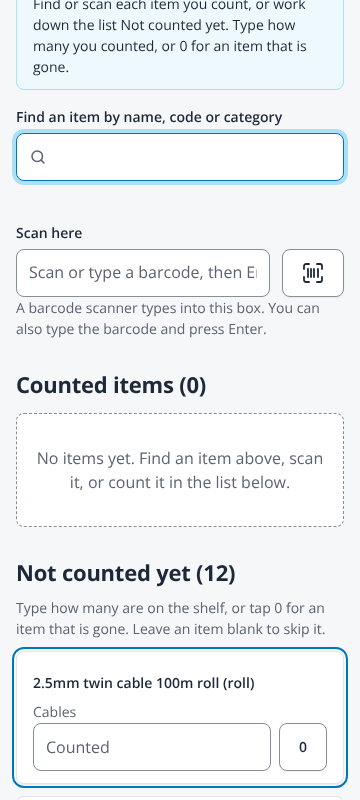
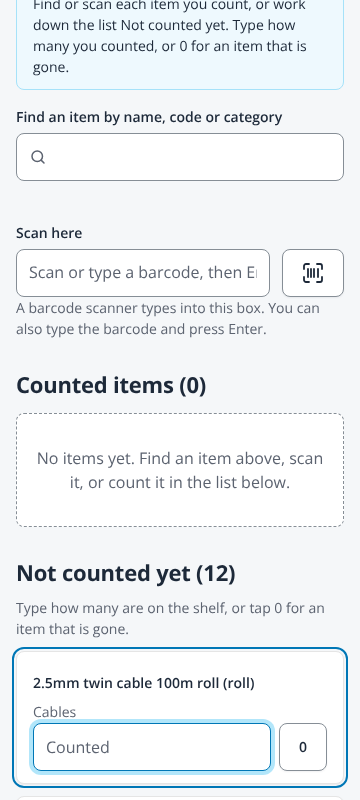
fix: review of #535 round 3: Finish anyway keeps the Review guards, and picker polish
- Stock-take: any change to a count withdraws the question, and Finish anyway has the Review
  button's disabled and busy states, so it never sends an invalid or empty count, or two drafts.
- Stock-take: a picked item's count box takes the cursor; the not-counted list uses sets; the
  hint no longer says to leave a line blank.
- Picker: an Escape with nothing to close goes on to the panel around it; the list is named by
  its own box's label; a cached answer stays in view while it is refreshed.
- Sale complete: New sale comes right after the receipt actions, before the documents.
- Docs and screenshots updated.

Changed region(s): [[0.0306, 0.1562, 0.9778, 0.25], [0.0611, 0.875, 0.7639, 0.9688], [0.3667, 0.7812, 0.8861, 0.8125]]

diff --git a/frontend/src/areas/staff/retail/stocktake.tsx b/frontend/src/areas/staff/retail/stocktake.tsx
@@ -1,6 +1,6 @@
 import { useMutation, useQuery, useQueryClient } from '@tanstack/react-query';
 import { createLazyRoute } from '@tanstack/react-router';
-import { useState } from 'react';
+import { useEffect, useState } from 'react';
 import { Highlight } from '../../../app/ui/SearchBox';
 import { ItemCombobox } from '../../../app/ui/ItemCombobox';
 import { matchesSearch, useLiveSearch } from '../../../app/ui/useLiveSearch';
@@ -89,6 +89,14 @@ function CountSheet({ branchId }: { branchId: string }) {
   // The lines whose count is entered, in the order they were done; and the question asked before a count with lines left.
   const [done, setDone] = useState<string[]>([]);
   const [confirming, setConfirming] = useState(false);
+  // The question answers the counts it was asked about: any change to a count withdraws it, so Finish anyway never sends
+  // counts the counter has not seen it for (review of #535).
+  useEffect(() => setConfirming(false), [counts]);
+  // A picked item's count box takes the cursor, after the picker has put it back in the search (review of #535).
+  const [focusOn, setFocusOn] = useState<{ id: string; pick: number } | null>(null);
+  useEffect(() => {
+    if (focusOn) document.getElementById(`count-${focusOn.id}`)?.focus();
+  }, [focusOn]);
   /** A line leaves Not counted yet once its count is in, and goes back if the count is emptied. */
   const settle = (id: string) => setDone((d) => ((counts[id] ?? '').trim() === '' ? d.filter((x) => x !== id) : d.includes(id) ? d : [...d, id]));
   const stock = useQuery({ queryKey: ['retail', 'stock', branchId, '', false], queryFn: () => countableStock(branchId) });
@@ -139,7 +147,10 @@ function CountSheet({ branchId }: { branchId: string }) {
   // A line leaves it once its count is entered (on leaving the box, on Enter, or on 0), and "Counted items" holds the done
   // ones. An item found or scanned and not yet counted heads the list, marked, for its count.
   const isCounted = (id: string) => (counts[id] ?? '').trim() !== '';
-  const notCounted = [...rows.filter((r) => !done.includes(r.product_id ?? '')), ...(stock.data ?? []).filter((r) => !done.includes(r.product_id ?? '') && !listed.includes(r.product_id ?? ''))];
+  // Sets, so a sheet of thousands of lines is not walked line by line for every key in a count box.
+  const doneSet = new Set(done);
+  const listedSet = new Set(listed);
+  const notCounted = [...rows.filter((r) => !doneSet.has(r.product_id ?? '')), ...(stock.data ?? []).filter((r) => !doneSet.has(r.product_id ?? '') && !listedSet.has(r.product_id ?? ''))];
   const counted = done.flatMap((id) => byId.get(id) ?? []);
   const uncounted = (stock.data ?? []).filter((r) => !isCounted(r.product_id ?? '')).length;
   const finish = () => {
@@ -180,7 +191,7 @@ function CountSheet({ branchId }: { branchId: string }) {
           search={search}
           results={found}
           optionKey={(r) => r.product_id ?? ''}
-          onPick={(r) => { list(r.product_id ?? ''); setScanned(r.product_id ?? ''); }}
+          onPick={(r) => { list(r.product_id ?? ''); setScanned(r.product_id ?? ''); setFocusOn((f) => ({ id: r.product_id ?? '', pick: (f?.pick ?? 0) + 1 })); }}
           renderOption={(r) => (
             <>
               <span className="cb-text">
@@ -201,7 +212,7 @@ function CountSheet({ branchId }: { branchId: string }) {
           {counted.length === 0 && <p className="empty-state">No items yet. Find an item above, scan it, or count it in the list below.</p>}
           {counted.map((r) => line(r, false))}
           <h2>Not counted yet ({notCounted.length})</h2>
-          {notCounted.length === 0 ? <p className="empty-state">Every item on the sheet is counted.</p> : <p className="hint">Type how many are on the shelf, or tap 0 for an item that is gone. Leave an item blank to skip it.</p>}
+          {notCounted.length === 0 ? <p className="empty-state">Every item on the sheet is counted.</p> : <p className="hint">Type how many are on the shelf, or tap 0 for an item that is gone.</p>}
           {notCounted.map((r) => line(r, true))}
         </>
       )}
@@ -212,7 +223,7 @@ function CountSheet({ branchId }: { branchId: string }) {
           <p>{`${uncounted} ${uncounted === 1 ? 'item' : 'items'} not counted. Finish anyway?`}</p>
           <p className="cluster">
             <button type="button" className="btn-sm" onClick={() => setConfirming(false)}>Keep counting</button>
-            <button type="button" className="btn-sm" onClick={finish}>Finish anyway</button>
+            <BusyButton type="button" className="btn-sm" busy={review.isPending} disabled={entered.length === 0 || bad} onClick={finish}>Finish anyway</BusyButton>
           </p>
         </div>
       )}

diff --git a/frontend/src/areas/staff/retail/stocktake.dom.test.tsx b/frontend/src/areas/staff/retail/stocktake.dom.test.tsx
@@ -91,7 +91,7 @@ describe('counting the sheet', () => {
     expect(box().getAttribute('aria-expanded')).toBe('true');
   });
 
-  it('puts a picked item at the head of the list, marked, clears and closes the search and returns the cursor to it', async () => {
+  it('puts a picked item at the head of the list, marked, clears and closes the search and puts the cursor in its count box', async () => {
     listStock.mockResolvedValue([...active, inactiveHeld]);
     open();
     await screen.findByText(EMPTY);
@@ -99,7 +99,8 @@ describe('counting the sheet', () => {
     fireEvent.click(await screen.findByRole('option', { name: /^Test Lamp Inactive Held/ }));
     expect(box().value).toBe('');
     expect(screen.queryByRole('listbox')).toBeNull();
-    expect(document.activeElement).toBe(box());
+    // The point of the pick is its count (review of #535), so its box takes the cursor rather than the search.
+    expect(document.activeElement?.id).toBe('count-I-1');
     expect(screen.getByTestId('scan-hit').querySelector('input')?.id).toBe('count-I-1');
     const lines = [...document.querySelectorAll('.rt-card input[id^="count-"]')].map((i) => i.id);
     expect(lines).toEqual(['count-I-1', 'count-A-1']);
@@ -136,6 +137,36 @@ describe('counting the sheet', () => {
     fireEvent.click(screen.getByRole('button', { name: 'Finish anyway' }));
     await waitFor(() => expect(createStocktake).toHaveBeenCalledTimes(1));
     expect(createStocktake.mock.calls[0]?.[0]).toEqual({ branch_id: expect.any(String), lines: [{ product_id: 'I-1', counted_qty: '0' }] });
+  });
+
+  // Review of #535: the question answers the counts it was asked about, and Finish anyway keeps the Review button's guards.
+  it('withdraws the question when a count changes, so Finish anyway never sends an invalid or empty count', async () => {
+    listStock.mockResolvedValue([...active, inactiveHeld]);
+    open();
+    await screen.findByText(EMPTY);
+    const held = document.getElementById('count-I-1') as HTMLInputElement;
+    fireEvent.change(held, { target: { value: '3' } });
+    fireEvent.click(screen.getByRole('button', { name: 'Review variance (1 counted)' }));
+    expect(screen.getByTestId('count-not-done')).toBeTruthy();
+    fireEvent.change(document.getElementById('count-I-1') as HTMLInputElement, { target: { value: '4x' } });
+    expect(screen.queryByTestId('count-not-done')).toBeNull();
+    expect(screen.queryByRole('button', { name: 'Finish anyway' })).toBeNull();
+    expect(createStocktake).not.toHaveBeenCalled();
+  });
+
+  it('keeps Finish anyway to one request however often it is tapped', async () => {
+    listStock.mockResolvedValue([...active, inactiveHeld]);
+    createStocktake.mockImplementation(() => new Promise(() => {}));
+    open();
+    await screen.findByText(EMPTY);
+    fireEvent.click(screen.getByRole('button', { name: 'Count 0 of Test Lamp Inactive Held' }));
+    fireEvent.click(screen.getByRole('button', { name: 'Review variance (1 counted)' }));
+    const go = screen.getByRole('button', { name: 'Finish anyway' });
+    fireEvent.click(go);
+    fireEvent.click(go);
+    await waitFor(() => expect(createStocktake).toHaveBeenCalledTimes(1));
+    await new Promise((r) => setTimeout(r, 50));
+    expect(createStocktake).toHaveBeenCalledTimes(1);
   });
 
   it('goes back to the count on Keep counting, and sends nothing', async () => {

diff --git a/frontend/src/app/ui/ItemCombobox.tsx b/frontend/src/app/ui/ItemCombobox.tsx
@@ -82,7 +82,9 @@ export function ItemCombobox<T>({ id, label, search, results, fetching = false, 
       if (item !== undefined) pick(item);
       else search.flush();
     } else if (e.key === 'Escape') {
-      // Escape belongs to the picker: a panel or dialog around it does not close on it as well.
+      // An Escape that closes the list or empties the box belongs to the picker, so a panel around it does not close as well;
+      // with the list closed and the box empty it goes on to the panel.
+      if (!expanded && search.text === '') return;
       e.preventDefault();
       e.stopPropagation();
       if (expanded) setOpen(false);
@@ -98,7 +100,7 @@ export function ItemCombobox<T>({ id, label, search, results, fetching = false, 
         if (!e.currentTarget.contains(e.relatedTarget as Node | null)) setOpen(false);
       }}
     >
-      <label htmlFor={id}>{label}</label>
+      <label id={`${id}-label`} htmlFor={id}>{label}</label>
       <div className="cb-anchor">
         <div className="sb-field">
           <input
@@ -126,7 +128,7 @@ export function ItemCombobox<T>({ id, label, search, results, fetching = false, 
         </div>
         {expanded && (
           <div className="cb-pop">
-            <ul id={listId} role="listbox" aria-label="Matching items" className="cb-list">
+            <ul id={listId} role="listbox" aria-labelledby={`${id}-label`} className="cb-list">
               {shown.map((item, i) => (
                 <li
                   key={optionKey(item)}

diff --git a/frontend/src/areas/staff/retail/sale.tsx b/frontend/src/areas/staff/retail/sale.tsx
@@ -679,12 +679,12 @@ export function RecordSale() {
         <ProvisionalReceipt item={queued} onNew={() => { setQueued(null); setRound((n) => n + 1); }} />
       ) : sale ? (
         <>
-          {/* Share receipt is the main action here (issue #534): New sale comes after the receipt actions, and is the
+          {/* Share receipt is the main action here (issue #534): New sale comes right after the receipt actions, and is the
               main action until Share receipt is drawn, or when this sale offers no receipt to share. */}
           <Receipt sale={sale} received={received} />
           <ShareReceipt sale={sale} madeHere />
-          {sale.id && <SaleDocuments saleId={sale.id} status={sale.status} branchId={sale.branch_id} />}
           <NewSale sale={sale} onNew={() => { setSale(null); setReceived(undefined); setRound((n) => n + 1); }} />
+          {sale.id && <SaleDocuments saleId={sale.id} status={sale.status} branchId={sale.branch_id} />}
         </>
       ) : (
         <>

diff --git a/frontend/src/areas/staff/retail/item-picker.dom.test.tsx b/frontend/src/areas/staff/retail/item-picker.dom.test.tsx
@@ -108,6 +108,15 @@ describe('the item picker on the retail screens', () => {
     expect(await screen.findByRole('option', { name: /^Test Lamp 15W/ })).toBeTruthy();
   });
 
+  it('keeps a cached answer in view while it is refreshed in the background (review of #535)', async () => {
+    listProducts.mockResolvedValueOnce([bulb]).mockImplementation(() => new Promise(() => {}));
+    open();
+    await pickItem('Test Bulb 9W', { typed: 'bulb' });
+    fireEvent.change(box(), { target: { value: 'bulb' } });
+    expect(await screen.findByRole('option', { name: /^Test Bulb 9W/ })).toBeTruthy();
+    expect(listProducts).toHaveBeenCalledTimes(2);
+  });
+
   it('says plainly when no item matches what was typed', async () => {
     listProducts.mockResolvedValue([]);
     open();

diff --git a/frontend/src/app/ui/ItemCombobox.dom.test.tsx b/frontend/src/app/ui/ItemCombobox.dom.test.tsx
@@ -175,6 +175,16 @@ describe('the item picker', () => {
     fireEvent.keyDown(box(), { key: 'Escape' });
     fireEvent.keyDown(box(), { key: 'Escape' });
     expect(outer).not.toHaveBeenCalled();
+    // With the list closed and the box empty, Escape has nothing to do here and goes on to the panel.
+    fireEvent.keyDown(box(), { key: 'Escape' });
+    expect(outer).toHaveBeenCalledTimes(1);
+  });
+
+  it('names its list after its own box, so two pickers on a screen are told apart', () => {
+    vi.useFakeTimers();
+    render(<Picker onPick={() => undefined} />);
+    type('bulb');
+    expect(screen.getByRole('listbox', { name: 'Find an item' })).toBeTruthy();
   });
 
   it('says plainly when no item matches', () => {

diff --git a/frontend/src/areas/staff/retail/ui.tsx b/frontend/src/areas/staff/retail/ui.tsx
@@ -256,7 +256,8 @@ export function ProductPicker({ id, branchId, onAdd, showPrice = false, showStoc
       search={search}
       // Only the answer to the term in the box: an earlier term's matches are never shown, so never picked.
       results={search.term === '' ? undefined : products.data}
-      fetching={products.isFetching}
+      // Waiting only for a term with no answer yet: a background refresh of a cached answer keeps its options in view.
+      fetching={products.isPending}
       error={products.isError ? <Problem error={products.error} /> : undefined}
       optionKey={(p) => p.id ?? p.code ?? ''}
       onPick={onAdd}

diff --git a/docs/sdd/03-functional-requirements.md b/docs/sdd/03-functional-requirements.md
@@ -1108,7 +1108,7 @@ Frontend only (issue #240); no API, schema or permission changes, except the loa
 | FR-UXN-04 | For a business that uses both Shop (retail) and Lending, the staff side menu shall group the module areas under two headed sections, Shop and Lending, each with its own icon, between the shared areas (Home and Approvals above; Reports, SMS, Receive payments, Users, Notifications, Feedback and Business set-up below). Each section heading folds and unfolds its links, and the folded sections are remembered per person on the device. A business with one module keeps the flat menu with no heading. On a phone the one-tap Sell button shows only while retail is on, and with both modules the Sale shortcut also stays in the Shop section (issue #471). | The headings are buttons with `aria-expanded` and `aria-controls`; the sidebar and the drawer list the same links in the same order for the same session (the parity tests); a folded section's links leave the page and the choice is kept under `bms.menu.sections.<user id>`, read and written inside `try`/`catch`; a tour step that points into a folded section unfolds it while shown; no heading with one module; tests for a one-module and a two-module business at 360px and 1280px. | MVP |
 | FR-UXN-05 | The staff Home shall show a card per module the business uses: Shop with today's sales total and count, the items low on stock and the open customer orders; Lending with the loans due today and in arrears (each a count and the amount still owed) and the lending requests waiting for approval. A business with one module sees only its card, and each figure shows only to a session holding the permission its endpoint requires (ADR-072): the shop figures come from the Home summary of FR-UXN-06 since issue #485 (today's sales `retail.sale.all_sellers`, the stock count `retail.stock.read`, the open orders `retail.order.manage`; the orders board only for a session without a sales read), `GET /lending/loans/summary` (`lending.loans.read`) and the approvals inbox (`core.approvals.read`). | The cards follow the active branch; Shop comes before Lending; a card with no figure the session may see is not drawn and asks no endpoint; a figure that cannot be loaded says so and the others stay; the loans due today and in arrears are read live from the schedule in the caller's branch scope, for a loan officer only their own portfolio (ADR-064), so a repayment lowers them at once; the cards stack in one column on a 360px phone. | MVP |
 | FR-UXN-06 | After the Shop card, the staff Home shall show the shop's summary cards to a session that sees everybody's money (`retail.sale.all_sellers` over the branches covered, ADR-055): Takings today (cash and mobile money always, then any other way that moved money, and the total, read the way the cash book reads a day so it agrees with the cash summary: sales paid at the sale, payments on credit sales and delivery fees in, cancelled sales, reversed payments on account and refunds on goods taken back out), Credit owed (the total owed by customers, how many customers and the oldest due date), Top items (the five items that sold the most by value, today or this week from Monday, switched on the card) and, only for a session that sees more than one branch with All branches chosen, Each shop today (one line per shop with its sales and number of sales, most first). Each card links to its full page (the cash summary or the sales list, credit control, the sales analysis, the shop dashboard). All shop figures come from one read, `GET /retail/reports/home` (issue #485, ADR-076), built from the dashboard, credit control and sales analysis queries over today or this week, in the tenant's business day (Africa/Kampala by default). | `RetailHomeSummaryIT`: the cash, mobile money and bank split of sales paid today and payments on credit sales dated today; the cash equal to the cash summary's for today; a refund today of yesterday's cash sale comes off today's cash and one of a mobile money sale off mobile money; a delivery fee taken in cash at the door is cash; a payment entered at 00:30 or 23:30 Kampala counts on its own date and a future-dated one is refused; `RetailHomeTakingsClockIT`: with the business clock at 23:30 and 00:30 Kampala each payment counts on its own day, and a payment dated after the day it was entered counts on its date; a sale on Sunday is last week's; a Store that sold today keeps its line and one that never sold has none; another tenant's sales never appear; a branch outside the caller's scope gives no part; credit owed equals credit control's total and buyer count, with the oldest due date; the top five today and this week; one line per shop over two or more shops and none for one; the branch chosen and the caller's branch scope narrow every figure; the takings need the cash summary's `retail.cashbook.read` over the branches covered and `retail.till.close`; a return on a credit sale taken off the balance moves no money; a receipt on account reversed today takes out what it brought in, matching the cash summary; a role without `retail.sale.all_sellers` gets 200 with no money part and still the stock count and the open orders; 403 without `retail.sale.read`. `home-cards.dom.test.tsx`: one read for every shop figure, the cards and their links, the switch to this week without another read, no money card without the permission or when the server leaves the part out, and plain words when nothing was taken, nobody owes or nothing sold. No migration. | MVP |
-| FR-UXN-07 | Every item picker (Record a sale online and offline, restock, usage and damage, move stock, count stock, price lists, orders, quotations, labels, purchase orders, goods received, joining sizes and the barcode assign panel) shall be one shared search box whose matches show as a short list under it only while something is typed, like a dropdown. Picking a match adds the item, empties the box, closes the list and leaves the cursor in the box for the next item. No picker shows an always-open or grouped browse list; the Stock page keeps the full list (FR-UXN-02). On the stock-take the search sits on top and the whole count sheet stays below it as "Not counted yet (N)", each line with its count box and a 0 button; a line moves to "Counted items" once its count is in, and finishing with lines left first says how many ("12 items not counted. Finish anyway?"), so a full count still walks the shelf list (owner decision on #535). The Scan box is unchanged (ADR-070 decision 11, owner decision D7). | `ItemCombobox` (`frontend/src/app/ui/ItemCombobox.tsx`) follows the WAI-ARIA combobox pattern: the input is `role="combobox"` with `aria-expanded`, `aria-controls` and `aria-autocomplete="list"`, the matches a `listbox` of `option`s at least 48px tall, the highlighted one announced through `aria-activedescendant`; Up and Down move it, Enter picks it (never an option not highlighted), Escape closes the list and a second Escape empties the box, and goes no further; matches show only once the answer is for the text in the box, so an earlier search's match is never tapped or picked; the search waits 250 ms after the last key and asks the server nothing for an empty box; at most 10 matches show, with "Type more to narrow" when there are more; no match says `No item matches "<text>".` Tests: `ItemCombobox.dom.test.tsx`, `item-picker.dom.test.tsx`, `stocktake.dom.test.tsx`, `screens.test.tsx` (issue #534). | MVP |
+| FR-UXN-07 | Every item picker (Record a sale online and offline, restock, usage and damage, move stock, count stock, price lists, orders, quotations, labels, purchase orders, goods received, joining sizes and the barcode assign panel) shall be one shared search box whose matches show as a short list under it only while something is typed, like a dropdown. Picking a match adds the item, empties the box, closes the list and leaves the cursor in the box for the next item. No picker shows an always-open or grouped browse list; the Stock page keeps the full list (FR-UXN-02). On the stock-take the search sits on top and the whole count sheet stays below it as "Not counted yet (N)", each line with its count box and a 0 button; a line moves to "Counted items" once its count is in, and finishing with lines left first says how many ("12 items not counted. Finish anyway?"), so a full count still walks the shelf list (owner decision on #535); there a pick puts the cursor in the item's count box, the next step, and any change to a count withdraws the question. The Scan box is unchanged (ADR-070 decision 11, owner decision D7). | `ItemCombobox` (`frontend/src/app/ui/ItemCombobox.tsx`) follows the WAI-ARIA combobox pattern: the input is `role="combobox"` with `aria-expanded`, `aria-controls` and `aria-autocomplete="list"`, the matches a `listbox` of `option`s at least 48px tall, the highlighted one announced through `aria-activedescendant`; Up and Down move it, Enter picks it (never an option not highlighted), Escape closes the list and a second Escape empties the box, and goes no further, while an Escape with nothing to close reaches the panel around the picker; matches show only once the answer is for the text in the box, so an earlier search's match is never tapped or picked; the search waits 250 ms after the last key and asks the server nothing for an empty box; at most 10 matches show, with "Type more to narrow" when there are more; no match says `No item matches "<text>".` Tests: `ItemCombobox.dom.test.tsx`, `item-picker.dom.test.tsx`, `stocktake.dom.test.tsx`, `screens.test.tsx` (issue #534). | MVP |
 
 ## 3.35 In-app feedback (FBK)
 

diff --git a/docs/specs/retail-ui-notes.md b/docs/specs/retail-ui-notes.md
@@ -1257,16 +1257,16 @@ the items show only while you search, and go away once one is picked. Every item
   stays quiet until the answer, so a screen reader hears it once per pause.
 - **Picking.** A tap, or Up and Down then Enter, adds the item. The box empties, the list closes and the cursor stays in
   the box for the next item. Enter with nothing highlighted only settles the search; it never picks. Escape closes the list,
-  and a second Escape empties the box; Escape never reaches a panel around the picker. The list closes when the cursor leaves the picker and opens again on return.
+  and a second Escape empties the box; an Escape that closes the list or empties the box never reaches a panel around the picker, and one with nothing to close goes on to it. The list closes when the cursor leaves the picker and opens again on return.
 - **Accessibility.** The input is `role="combobox"` with `aria-expanded`, `aria-controls` and `aria-autocomplete="list"`; the
-  list is a `listbox` named "Matching items" and its rows `option`s, the highlighted one `aria-selected` and named on the
+  list is a `listbox` named by its box's label and its rows `option`s, the highlighted one `aria-selected` and named on the
   input by `aria-activedescendant`; the status line under the box is a polite live region. A second picker on a screen has its
   own label: the barcode assign panel's is "Find the item this barcode belongs to".
 - **Count stock (owner decision on #535).** The search and Scan boxes sit on top. Below them, **Counted items (N)** holds the
   lines whose count is in, in the order done, and **Not counted yet (N)** holds every other item of the sheet (active items and
   inactive ones that still hold stock) with its count box and a **0** button for an item that is gone. A line moves to Counted
   items when its count is entered (on leaving the box, on Enter, or on 0) and back when the count is emptied. A found item that
-  is not counted yet heads Not counted yet, marked, with the cursor back in the search; a scan counts one more and moves the
+  is not counted yet heads Not counted yet, marked, with the cursor in its count box (the one picker where a pick does not leave it in the search, since the count is the next step); a scan counts one more and moves the
   line to Counted items. With lines left, Review variance first says "12 items not counted. Finish anyway?" with **Keep
   counting** and **Finish anyway**, as an inline warning, not a dialog. Only counted lines are sent, as before.
 - **Scan box.** Unchanged (ADR-070 decision 11, owner decision D7): a scanner types only into the Scan box, which adds the item or one more.
@@ -1318,8 +1318,8 @@ changes, so after a payment on the same screen the next share sends the new rece
 - Nothing is written to the server except the optional number; the typed number is never logged. The tour `retail-sales` is
   version 10: its Save step names Share receipt and WhatsApp customer.
 - **On the sale-complete screen (issue #534)** Share receipt is the first of the receipt actions and the screen's one main
-  action, right under the receipt; View receipt, the WhatsApp number and WhatsApp customer follow, then the sale's documents,
-  and **New sale** comes last as a full width secondary button 48px tall. Until Share receipt is drawn (its facts loading or
+  action, right under the receipt; View receipt, the WhatsApp number and WhatsApp customer follow, then **New sale** as a full
+  width secondary button 48px tall, and the sale's documents last, so the next sale needs no scroll past them. Until Share receipt is drawn (its facts loading or
   failed to load), or when the sale has no receipt to share, New sale is the main action, so the screen always has one.
 
 ## Sell offline (issue #458, ADR-067, FR-RET-67)

diff --git a/docs/ui/item-picker-534/README.md b/docs/ui/item-picker-534/README.md
@@ -10,6 +10,6 @@ screen scrolled sideways and no option of the list was under 48px.
 | `02-sale-typing` | "bulb" typed: the short list under the box, the typed word marked, the price and the stock here, a negative balance flagged |
 | `03-sale-after-pick` | Two items picked (a tap, then Down and Enter): the box empty, the list closed, the cursor back in the box |
 | `04-count-stock-typing` | Stock-take with "cable" typed: the matches of the count sheet under the box, over the list Not counted yet |
-| `04b-count-stock-after-pick` | The picked item at the head of Not counted yet, marked, the search empty and closed |
+| `04b-count-stock-after-pick` | The picked item at the head of Not counted yet, marked, with the cursor in its count box; the search empty and closed |
 | `04c-count-stock-counting` | The whole page during a count (owner decision on #535): Counted items, Not counted yet with a 0 on each line, and the question before finishing with lines left |
 | `05-sale-complete` | The sale-complete screen, the whole page: Share receipt first as the main action, New sale below the receipt actions |
